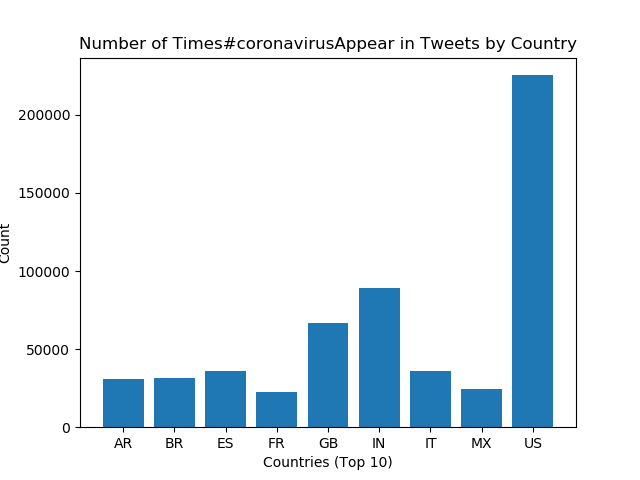
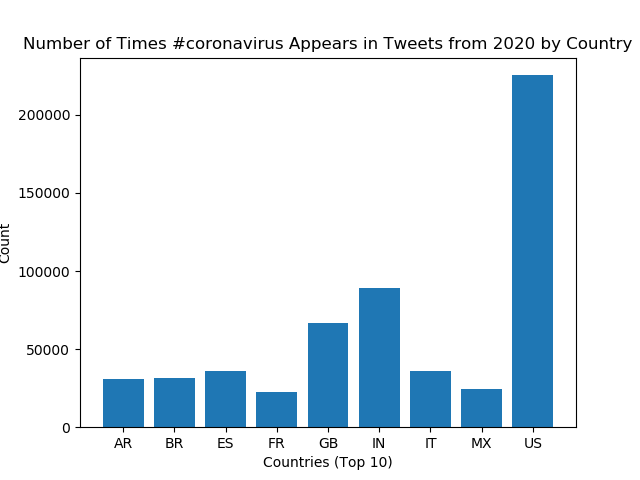
update graphs

Changed region(s): [[0.0312, 0.0625, 0.9688, 0.125]]

diff --git a/src/visualize.py b/src/visualize.py
@@ -30,15 +30,15 @@ for k,v in items:
     print(k,':',v)
 
 # plot bar graphs
-x_axis = [item[0] for item in items[:9]]
-y_axis = [item[1] for item in items[:9]]
+x_axis = [item[0] for item in sorted(items[:9])]
+y_axis = [item[1] for item in sorted(items[:9])]
 plt.bar(x_axis, y_axis)
 plt.ylabel("Count")
 if args.input_path == "reduced.country":
     plt.xlabel("Countries (Top 10)")
-    plt.title("Number of Times" + args.key + "Appear in Tweets by Country")
+    plt.title("Number of Times " + args.key + " Appears in Tweets from 2020 by Country")
     plt.savefig('country' + args.key + '.png')
 elif args.input_path == "reduced.lang":
     plt.xlabel("Languages (Top 10)")
-    plt.title("Number of Times" + args.key + "Appear in Tweets by Language")
+    plt.title("Number of Times " + args.key + " Appears in Tweets from 2020 by Language")
     plt.savefig('lang' + args.key + '.png')
